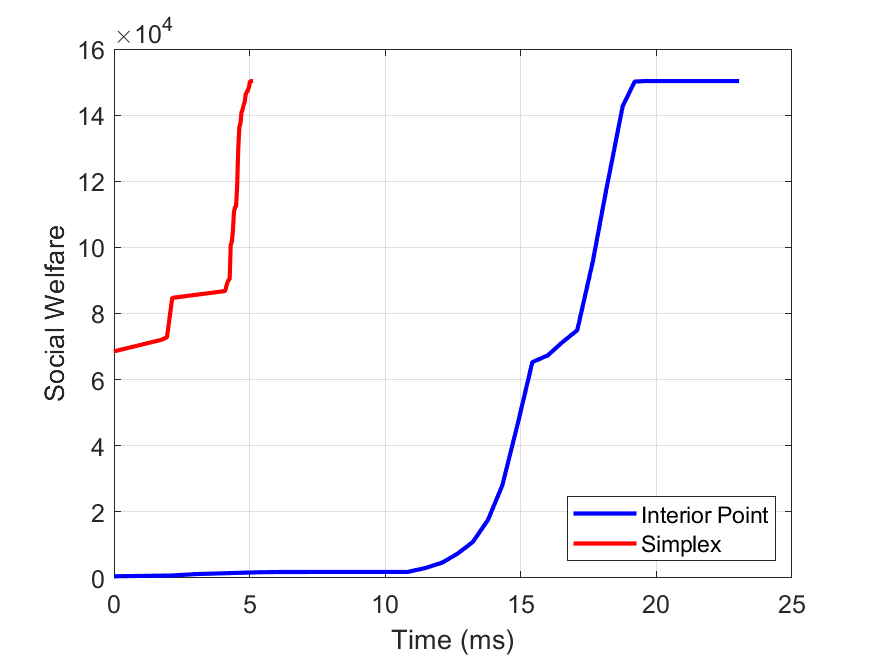
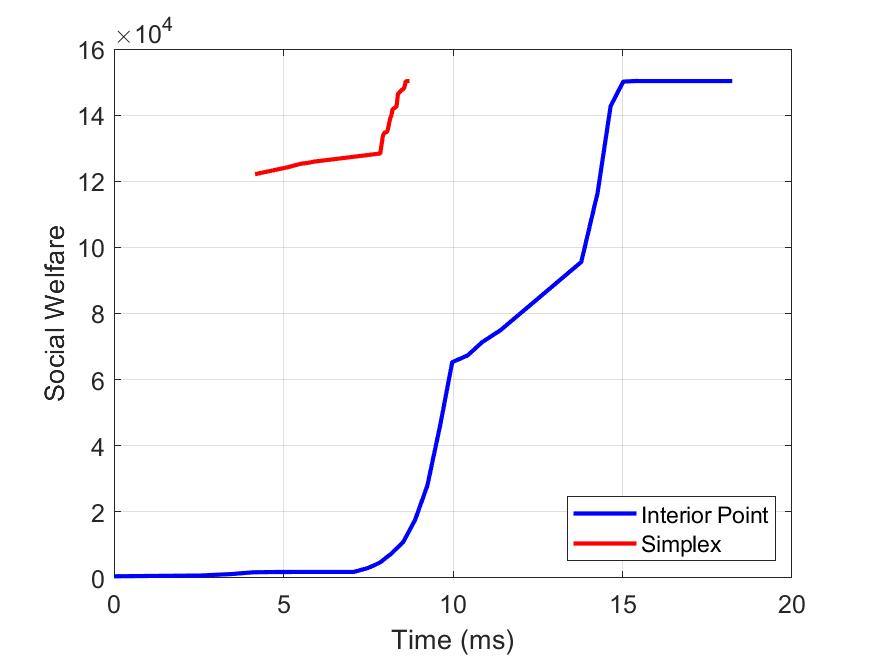
Now the feasible point is calculated with the simplex algorithm (problem 3)

diff --git a/Problem3/ActiveSet/feaseiblePointSimplex.m b/Problem3/ActiveSet/feaseiblePointSimplex.m
@@ -1,29 +1,42 @@
 function x0 = feaseiblePointSimplex(A, b)
+    % Find an initial feasible solution using the two-phase simplex method
 
     [m, n] = size(A);
 
+    % Step 1: Try to solve the system A * x = b to check feasibility
+    %disp('Checking feasibility of the system A * x = b...');
+    try
+        % Try to solve Ax = b directly (no artificial variables)
+        x_initial = A \ b;
+        if all(x_initial >= 0)
+            % If the solution is non-negative, it's a feasible solution
+            %disp('A feasible solution found directly without the need for artificial variables.');
+            x0 = x_initial;  % Return this solution as the initial feasible point
+            return;
+        else
+            %disp('Direct solution contains negative values, proceeding with Phase 1...');
+        end
+    catch
+        %disp('No solution exists for A * x = b, proceeding with Phase 1...');
+    end
 
-    %make x0 = [x; t; s1; s2]
-    x = zeros(n, 1);
-    t = max(abs(b));
-    s1 = t*ones(m, 1) - b;
-    s2 = t*ones(m, 1) + b;
-    x0 = [x; t; s1; s2];
+    % Step 2: Phase 1: Construct artificial variables
+    A_phase1 = [A, eye(m)];
+    g_phase1 = [zeros(n, 1); ones(m, 1)];  % Minimize the sum of artificial variables
+    b_phase1 = b;
 
-    %create g so that it minimizes t only
-    g = [zeros(n, 1); 1; zeros(2*m, 1)];
-
-    %create A to satisfy the new equality conditions
-    % Ax + t >= +-b     Ax + t - s = +-b
-    A = [A, ones(m, 1), -eye(m), zeros(m);
-        -A, ones(m, 1), zeros(m), -eye(m)];
-
-    %find the feasible point using simplex
-    x0 = Simplex(g, A, x0);
-    t = x0(n+1);
-    x0 = x0(1:n);
-
-    if t > 1e-6
-        error("Infeasible")
+    % Initial basic solution will be the artificial variables
+    x_phase1 = [zeros(n, 1); b_phase1];  % Initially, all x are zero, but artificial variables will be non-zero
+    
+    % Use Simplex to solve for Phase 1
+    [x_phase1_sol, ~, ~] = Simplex(g_phase1, A_phase1, x_phase1);
+    
+    % Check if the objective function is 0, meaning we found a feasible point
+    if all(x_phase1_sol(n+1:end) == 0)  % If no artificial variables are in the basis, we have a feasible solution
+        % Extract the basic feasible solution (x_phase1_sol corresponds to the original variables)
+        %disp('Feasible solution found in Phase 1');
+        x0 = x_phase1_sol(1:n);
+    else
+        error('No feasible solution found after Phase 1');
     end
 end

diff --git a/Problem3/LP.m b/Problem3/LP.m
@@ -9,6 +9,7 @@ Cn = length(C);
 Un = length(U);
 
 g = [C;-U];
+lenx = length(g);
 A = [-ones(Cn,1);ones(Un,1)];
 b = 0;
 u = [Pg_max; Pd_max];
@@ -32,8 +33,11 @@ epsilon = 1e-8;
 
 %% Active set
 tic;
-x0 = feasiblePointLinprog(A_std, b_std);
+x0 = feaseiblePointSimplex(A_std, b_std);
+feasible_time = toc*1000;
 [x_AS, objective_AS, times_AS] = Simplex(g_std, A_std, x0);
+x_AS = x_AS(1:lenx);
+times_AS = times_AS + ones(size(times_AS))*feasible_time;
 
 %% plotting
 figure;
